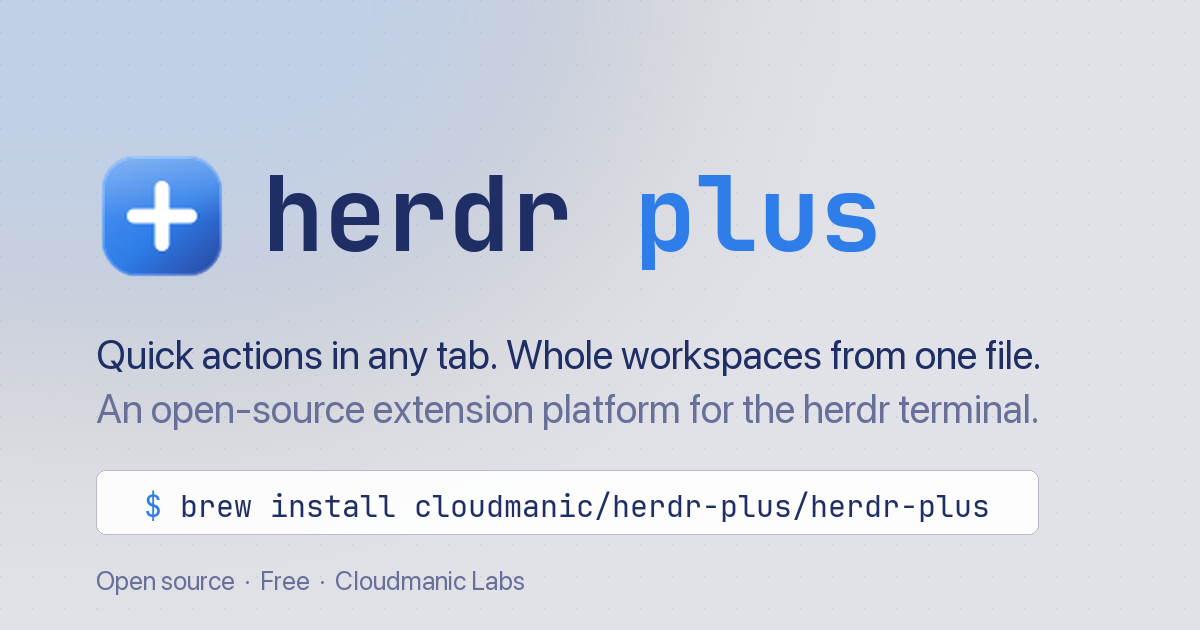
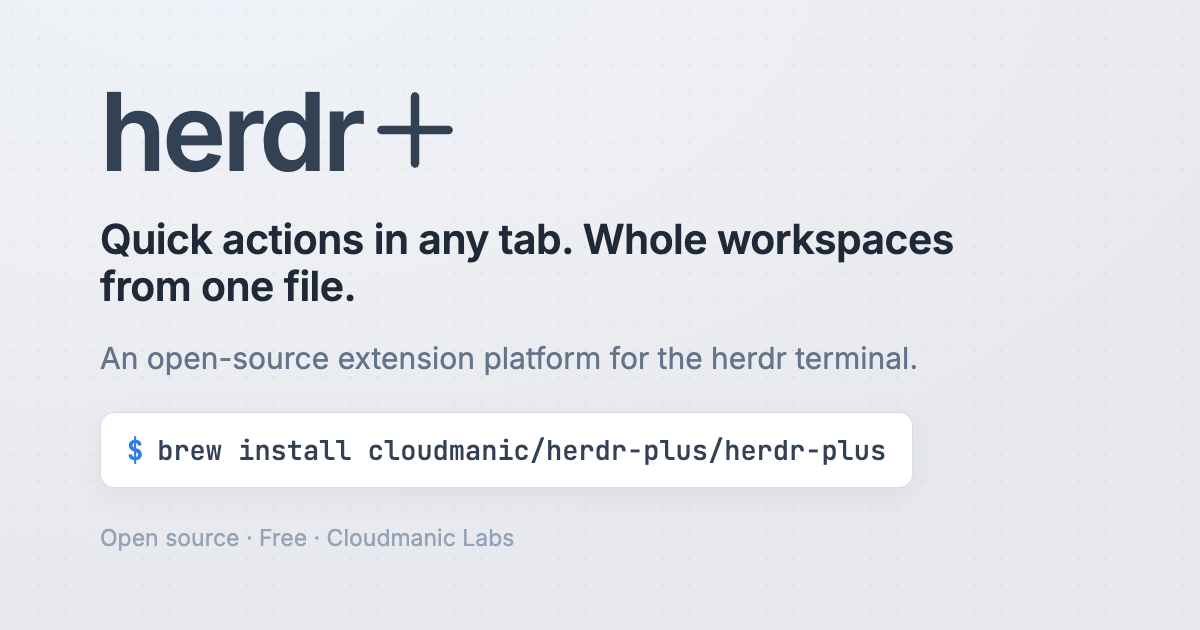
Redesign the herdr-plus brand mark and wordmark
Replace the glossy blue '+' badge with a minimal, elegant hairline plus and
restyle the wordmark into a cohesive 'herdr+' lockup:

- brand.html: inline hairline-plus SVG (currentColor) + 'herdr' in Inter 600,
  lowercase, tight tracking — the plus glyph serves as the literal '+'.
- app.css: new neutral --color-brand token (slate #334155 light / #cbd5e1 dark)
  in all three theme blocks; drives both mark and wordmark so the lockup is one
  color that adapts. Blue --color-accent kept for CTAs/links.
- logo.svg (favicon): standalone hairline plus that adapts to browser color
  scheme via prefers-color-scheme.
- Regenerated favicon/apple-touch/icon PNG set + favicon.ico from the new mark.
- Rebuilt the OG card with the new 'herdr+' lockup.

diff --git a/www/layouts/partials/brand.html b/www/layouts/partials/brand.html
@@ -1,8 +1,14 @@
-{{- /* brand.html — logo badge + "herdr plus" wordmark. Param: .size ("sm"|"md") */ -}}
+{{- /* brand.html — "herdr" wordmark + a hairline plus glyph that reads as the
+       "+" of herdr+. Mark + wordmark share one cohesive, theme-aware color
+       (--color-brand) so the whole lockup adapts between light/dark.
+       Param: .size ("sm"|"md") */ -}}
 {{- $size := .size | default "md" -}}
-{{- $badge := cond (eq $size "sm") "h-7 w-7" "h-8 w-8" -}}
+{{- $mark := cond (eq $size "sm") "h-[22px] w-[22px]" "h-[26px] w-[26px]" -}}
 {{- $text := cond (eq $size "sm") "text-lg" "text-xl" -}}
-<span class="inline-flex items-center gap-2.5">
-  <img src="{{ "images/logo.svg" | relURL }}" alt="" width="32" height="32" class="{{ $badge }} rounded-[9px]">
-  <span class="font-mono {{ $text }} font-semibold tracking-tight" style="color:var(--color-ink)">herdr<span style="color:var(--color-accent-ink)"> plus</span></span>
+<span class="inline-flex items-center gap-[1px]" style="color:var(--color-brand)">
+  <span class="font-sans {{ $text }} font-semibold tracking-[-0.02em] leading-none">herdr</span>
+  {{- /* hairline plus, optically centered, inherits the lockup color via currentColor */ -}}
+  <svg class="{{ $mark }}" viewBox="0 0 64 64" fill="none" xmlns="http://www.w3.org/2000/svg" aria-hidden="true" focusable="false">
+    <path d="M32 9V55M9 32H55" stroke="currentColor" stroke-width="6" stroke-linecap="round"/>
+  </svg>
 </span>

diff --git a/www/assets/css/app.css b/www/assets/css/app.css
@@ -42,6 +42,7 @@
   --color-accent:      #2e7de9;  /* primary brand blue */
   --color-accent-ink:  #1b5fc4;  /* accent text on light bg (AA) */
   --color-accent-soft: #dceafb;  /* accent tint fills */
+  --color-brand:       #334155;  /* logo lockup (mark + wordmark) — neutral slate */
   --color-green:       #587539;
   --color-green-soft:  #dcead0;
   --color-yellow:      #8c6c3e;
@@ -79,6 +80,7 @@
     --color-accent:      #7aa2f7;
     --color-accent-ink:  #a9c2ff;
     --color-accent-soft: #243049;
+    --color-brand:       #cbd5e1;  /* logo lockup — light slate for dark bg */
     --color-green:       #9ece6a;
     --color-green-soft:  #25332a;
     --color-yellow:      #e0af68;
@@ -111,6 +113,7 @@
   --color-accent:      #7aa2f7;
   --color-accent-ink:  #a9c2ff;
   --color-accent-soft: #243049;
+  --color-brand:       #cbd5e1;  /* logo lockup — light slate for dark bg */
   --color-green:       #9ece6a;
   --color-green-soft:  #25332a;
   --color-yellow:      #e0af68;
